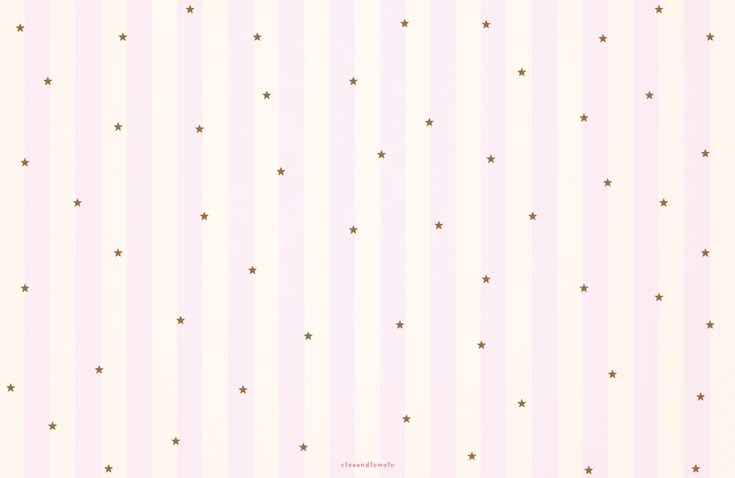
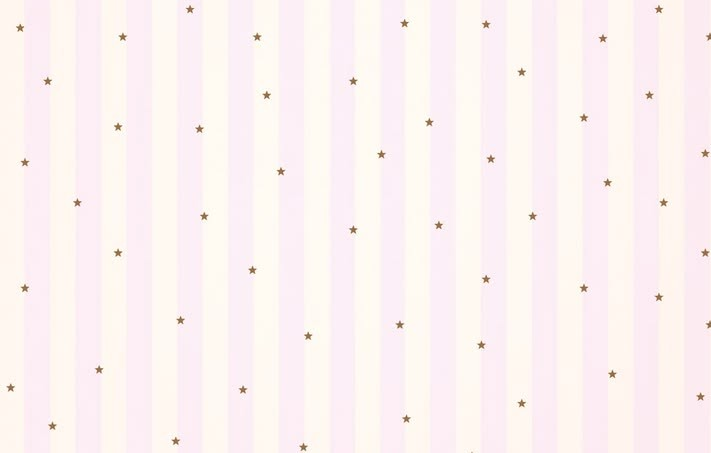
add to Homepage

diff --git a/index.html b/index.html
@@ -12,10 +12,11 @@
  padding: 40px 30px;
  line-height: 1.6;
  color: #330520;
- background-image: url('tiles.jpg');
- background-size: cover;
+ background-image: url(star.jpg);
  background-repeat: repeat;
- background-size: 50%;
+ background-size: 30%; /* each tile = 80% of container width */
+ background-position: center;
+ background-attachment: scroll;
  }
  header {
  border-bottom: 3px solid #330520;
